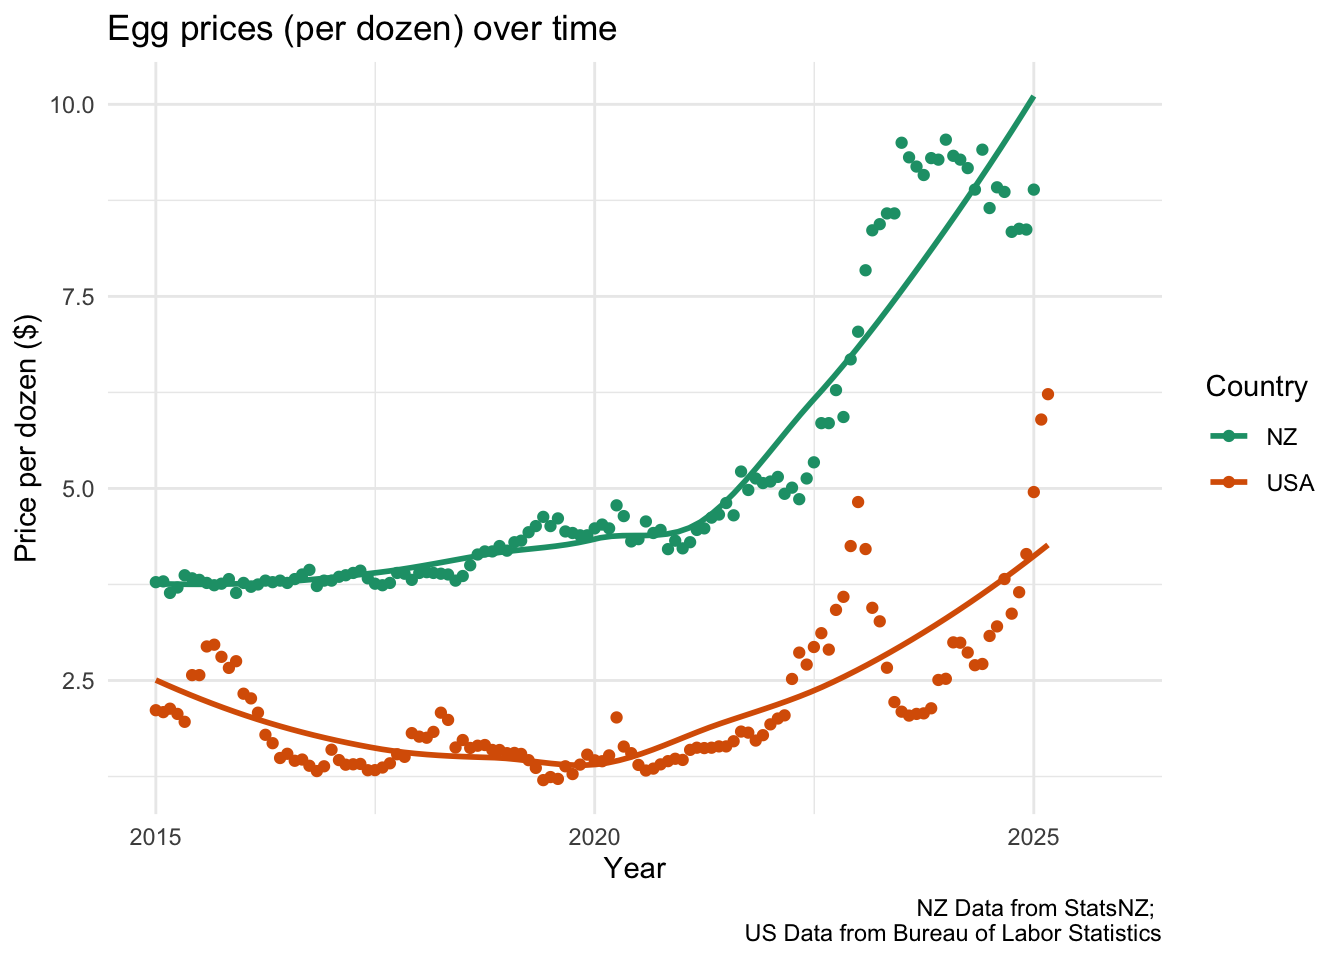
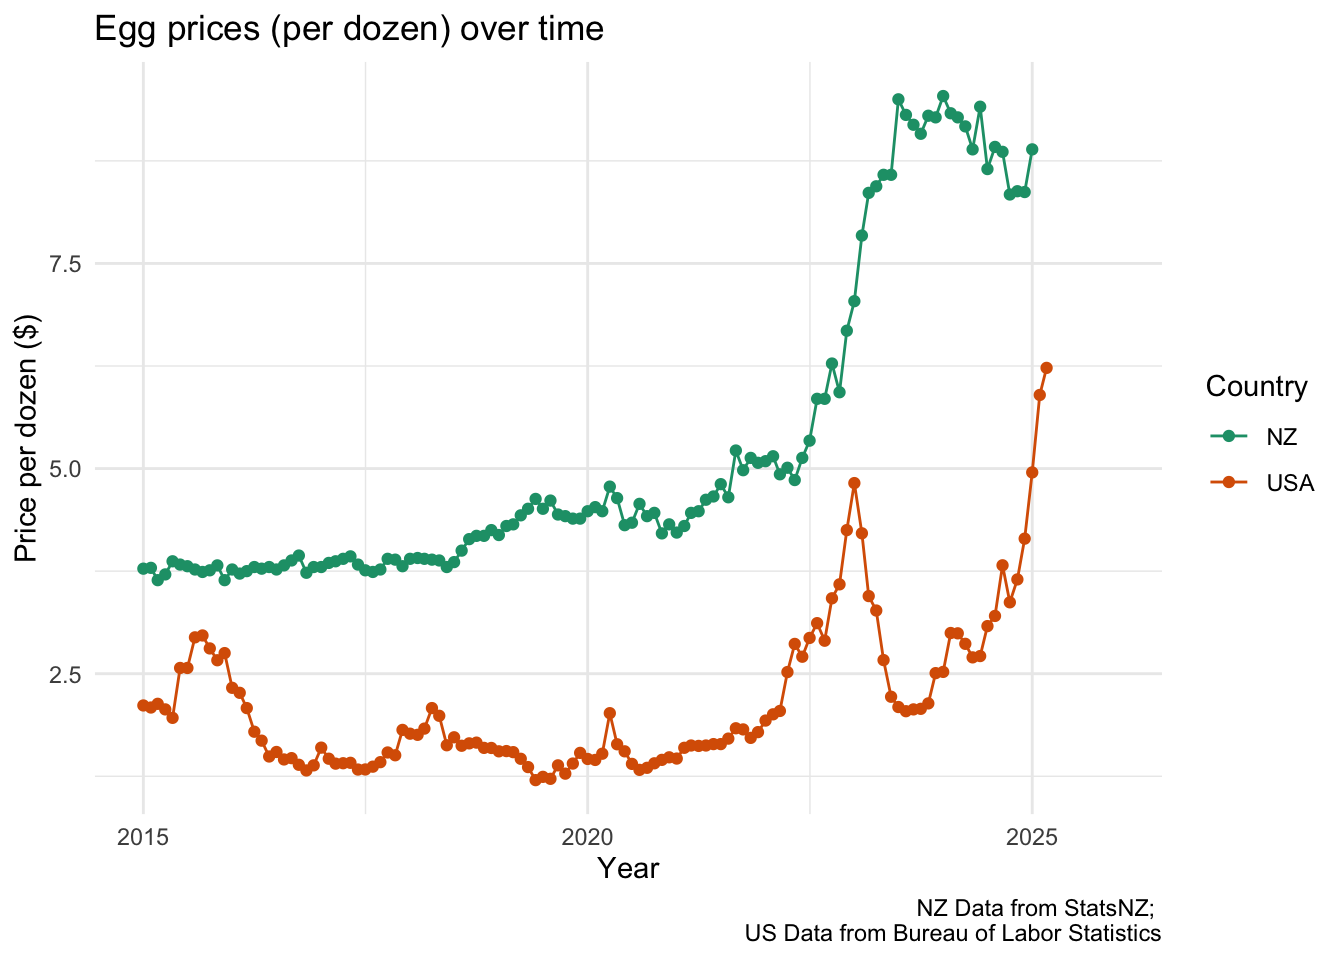
update egg plot

diff --git a/_site/charts/2025-04-19_smooth/index.html b/_site/charts/2025-04-19_smooth/index.html
@@ -7,7 +7,7 @@
 <meta name="viewport" content="width=device-width, initial-scale=1.0, user-scalable=yes">
 
 <meta name="author" content="Jen Richmond">
-<meta name="dcterms.date" content="2025-04-20">
+<meta name="dcterms.date" content="2025-04-19">
 
 <title>day 19_smooth – Jen Richmond</title>
 <style>
@@ -159,8 +159,15 @@ gtag('config', 'G-Y7WV5KV7Z0', { 'anonymize_ip': true});
 <div id="quarto-content" class="quarto-container page-columns page-rows-contents page-layout-article page-navbar">
 <!-- sidebar -->
 <!-- margin-sidebar -->
-    <div id="quarto-margin-sidebar" class="sidebar margin-sidebar zindex-bottom">
-        
+    <div id="quarto-margin-sidebar" class="sidebar margin-sidebar">
+        <nav id="TOC" role="doc-toc" class="toc-active">
+    <h2 id="toc-title">On this page</h2>
+   
+  <ul>
+  <li><a href="#read-datafix-dates" id="toc-read-datafix-dates" class="nav-link active" data-scroll-target="#read-datafix-dates">read data/fix dates</a></li>
+  <li><a href="#plot" id="toc-plot" class="nav-link" data-scroll-target="#plot">plot</a></li>
+  </ul>
+</nav>
     </div>
 <!-- main -->
 <main class="content" id="quarto-document-content">
@@ -184,7 +191,7 @@ gtag('config', 'G-Y7WV5KV7Z0', { 'anonymize_ip': true});
     <div>
     <div class="quarto-title-meta-heading">Published</div>
     <div class="quarto-title-meta-contents">
-      <p class="date">April 20, 2025</p>
+      <p class="date">April 19, 2025</p>
     </div>
   </div>
   
@@ -196,6 +203,10 @@ gtag('config', 'G-Y7WV5KV7Z0', { 'anonymize_ip': true});
 </header>
 
 
+<p><a href="https://www.nbcnews.com/data-graphics/dozen-egg-prices-drop-charts-data-rcna200232">Egg prices in the USA</a> are high right now, mostly due to supply issues caused by bird flu outbreaks. I was interested in how prices compare to egg prices in NZ, which have been high since <a href="https://www.consumer.org.nz/articles/how-did-egg-prices-double-in-a-year?gad_source=1&amp;gclid=CjwKCAjwk43ABhBIEiwAvvMEB5SiHsth08IkoYuGeXo6df4B5r6xlNonBhDxZqLCd3tOpbE9P0JmFBoCxCoQAvD_BwE">battery farms bans wwent into effect</a> in 2022.</p>
+<p>The data for these plot came from StatsNZ and the US Bureau of Labor Statistics and reuested a bit of wrangling to make the format consistent. You can find the code that I wrong to read in and clean the egg data in this <a href="https://github.com/jenrichmond/jenrichmond.github.io/blob/main/charts/2025-04-19_smooth/get%20egg%20data.R">.R script</a></p>
+<section id="read-datafix-dates" class="level2">
+<h2 class="anchored" data-anchor-id="read-datafix-dates">read data/fix dates</h2>
 <div class="cell">
 <div class="sourceCode cell-code" id="cb1"><pre class="sourceCode r code-with-copy"><code class="sourceCode r"><span id="cb1-1"><a href="#cb1-1" aria-hidden="true" tabindex="-1"></a><span class="fu">library</span>(tidyverse)</span>
 <span id="cb1-2"><a href="#cb1-2" aria-hidden="true" tabindex="-1"></a><span class="fu">library</span>(here)</span>
@@ -219,11 +230,19 @@ $ month_year &lt;chr&gt; "Jan_2015", "Feb_2015", "Mar_2015", "Apr_2015", "May_20
 $ date       &lt;date&gt; 2015-01-01, 2015-02-01, 2015-03-01, 2015-04-01, 2015-05-01…</code></pre>
 </div>
 </div>
+</section>
+<section id="plot" class="level1">
+<h1>plot</h1>
+<p>The Quarto panel tabset is a nice way of comparing different plot options here. I think the smooth option looks better with slightly transparent points.</p>
+<div class="tabset-margin-container"></div><div class="panel-tabset">
+<ul class="nav nav-tabs" role="tablist"><li class="nav-item" role="presentation"><a class="nav-link active" id="tabset-1-1-tab" data-bs-toggle="tab" data-bs-target="#tabset-1-1" role="tab" aria-controls="tabset-1-1" aria-selected="true">point + line</a></li><li class="nav-item" role="presentation"><a class="nav-link" id="tabset-1-2-tab" data-bs-toggle="tab" data-bs-target="#tabset-1-2" role="tab" aria-controls="tabset-1-2" aria-selected="false">point + smooth</a></li></ul>
+<div class="tab-content">
+<div id="tabset-1-1" class="tab-pane active" role="tabpanel" aria-labelledby="tabset-1-1-tab">
 <div class="cell">
 <div class="sourceCode cell-code" id="cb3"><pre class="sourceCode r code-with-copy"><code class="sourceCode r"><span id="cb3-1"><a href="#cb3-1" aria-hidden="true" tabindex="-1"></a>eggs <span class="sc">%&gt;%</span></span>
 <span id="cb3-2"><a href="#cb3-2" aria-hidden="true" tabindex="-1"></a>  <span class="fu">ggplot</span>(<span class="fu">aes</span>(<span class="at">x =</span> date, <span class="at">y =</span> price, <span class="at">colour =</span> currency)) <span class="sc">+</span></span>
 <span id="cb3-3"><a href="#cb3-3" aria-hidden="true" tabindex="-1"></a>  <span class="fu">geom_point</span>() <span class="sc">+</span></span>
-<span id="cb3-4"><a href="#cb3-4" aria-hidden="true" tabindex="-1"></a>  <span class="fu">geom_smooth</span>(<span class="at">se =</span> <span class="cn">FALSE</span>, <span class="at">na.rm =</span> <span class="cn">TRUE</span>) <span class="sc">+</span></span>
+<span id="cb3-4"><a href="#cb3-4" aria-hidden="true" tabindex="-1"></a>  <span class="fu">geom_line</span>() <span class="sc">+</span></span>
 <span id="cb3-5"><a href="#cb3-5" aria-hidden="true" tabindex="-1"></a>  <span class="fu">scale_colour_brewer</span>(<span class="at">palette =</span> <span class="st">"Dark2"</span>, <span class="at">name =</span> <span class="st">"Country"</span>, <span class="at">labels =</span> <span class="fu">c</span>(<span class="st">"NZ"</span>, <span class="st">"USA"</span>)) <span class="sc">+</span></span>
 <span id="cb3-6"><a href="#cb3-6" aria-hidden="true" tabindex="-1"></a>  <span class="fu">theme_minimal</span>() <span class="sc">+</span></span>
 <span id="cb3-7"><a href="#cb3-7" aria-hidden="true" tabindex="-1"></a>  <span class="fu">labs</span>(<span class="at">y =</span> <span class="st">"Price per dozen ($)"</span>, <span class="at">x =</span> <span class="st">"Year"</span>, </span>
@@ -237,8 +256,32 @@ $ date       &lt;date&gt; 2015-01-01, 2015-02-01, 2015-03-01, 2015-04-01, 2015-0
 </div>
 </div>
 </div>
+</div>
+<div id="tabset-1-2" class="tab-pane" role="tabpanel" aria-labelledby="tabset-1-2-tab">
+<div class="cell">
+<div class="sourceCode cell-code" id="cb4"><pre class="sourceCode r code-with-copy"><code class="sourceCode r"><span id="cb4-1"><a href="#cb4-1" aria-hidden="true" tabindex="-1"></a>eggs <span class="sc">%&gt;%</span></span>
+<span id="cb4-2"><a href="#cb4-2" aria-hidden="true" tabindex="-1"></a>  <span class="fu">ggplot</span>(<span class="fu">aes</span>(<span class="at">x =</span> date, <span class="at">y =</span> price, <span class="at">colour =</span> currency)) <span class="sc">+</span></span>
+<span id="cb4-3"><a href="#cb4-3" aria-hidden="true" tabindex="-1"></a>  <span class="fu">geom_point</span>(<span class="at">alpha =</span> <span class="fl">0.5</span>) <span class="sc">+</span></span>
+<span id="cb4-4"><a href="#cb4-4" aria-hidden="true" tabindex="-1"></a>  <span class="fu">geom_smooth</span>(<span class="at">se =</span> <span class="cn">FALSE</span>, <span class="at">na.rm =</span> <span class="cn">TRUE</span>) <span class="sc">+</span></span>
+<span id="cb4-5"><a href="#cb4-5" aria-hidden="true" tabindex="-1"></a>  <span class="fu">scale_colour_brewer</span>(<span class="at">palette =</span> <span class="st">"Dark2"</span>, <span class="at">name =</span> <span class="st">"Country"</span>, <span class="at">labels =</span> <span class="fu">c</span>(<span class="st">"NZ"</span>, <span class="st">"USA"</span>)) <span class="sc">+</span></span>
+<span id="cb4-6"><a href="#cb4-6" aria-hidden="true" tabindex="-1"></a>  <span class="fu">theme_minimal</span>() <span class="sc">+</span></span>
+<span id="cb4-7"><a href="#cb4-7" aria-hidden="true" tabindex="-1"></a>  <span class="fu">labs</span>(<span class="at">y =</span> <span class="st">"Price per dozen ($)"</span>, <span class="at">x =</span> <span class="st">"Year"</span>, </span>
+<span id="cb4-8"><a href="#cb4-8" aria-hidden="true" tabindex="-1"></a>       <span class="at">title =</span> <span class="st">"Egg prices (per dozen) over time"</span>, </span>
+<span id="cb4-9"><a href="#cb4-9" aria-hidden="true" tabindex="-1"></a>       <span class="at">caption =</span> <span class="st">"NZ Data from StatsNZ; </span><span class="sc">\n</span><span class="st">US Data from Bureau of Labor Statistics"</span>)</span></code><button title="Copy to Clipboard" class="code-copy-button"><i class="bi"></i></button></pre></div>
+<div class="cell-output-display">
+<div>
+<figure class="figure">
+<p><img src="index_files/figure-html/unnamed-chunk-3-1.png" class="img-fluid figure-img" width="672"></p>
+</figure>
+</div>
+</div>
+</div>
+</div>
+</div>
+</div>
 
 
+</section>
 
 </main> <!-- /main -->
 <script id="quarto-html-after-body" type="application/javascript">

diff --git a/_site/charts.html b/_site/charts.html
@@ -540,7 +540,7 @@ Apr 17, 2025
 </div>
 </a>
 </div>
-<div class="g-col-1" data-index="13" data-listing-date-sort="1745064000000" data-listing-file-modified-sort="1745111555972" data-listing-date-modified-sort="NaN" data-listing-reading-time-sort="1" data-listing-word-count-sort="133">
+<div class="g-col-1" data-index="13" data-listing-date-sort="1744977600000" data-listing-file-modified-sort="1745132816147" data-listing-date-modified-sort="NaN" data-listing-reading-time-sort="2" data-listing-word-count-sort="340">
 <a href="./charts/2025-04-19_smooth/index.html" class="quarto-grid-link">
 <div class="quarto-grid-item card h-100 card-left">
 <p class="card-img-top">
@@ -551,22 +551,14 @@ Apr 17, 2025
 day 19_smooth
 </h5>
 <div class="card-text listing-description">
-
-<div class="sourceCode cell-code" id="cb1"><pre class="sourceCode r code-with-copy"><code class="sourceCode r"><span id="cb1-1"><span class="fu">library</span>(tidyverse)</span>
-<span id="cb1-2"><span class="fu">library</span>(here)</span>
-<span id="cb1-3"></span>
-<span id="cb1-4">eggs <span class="ot">&lt;-</span> <span class="fu">read_csv</span>(<span class="fu">here</span>(<span class="st">"charts"</span>, <span class="st">"2025-04-19_smooth"</span>, <span class="st">"eggsNZUSA.csv"</span>)) </span>
-<span id="cb1-5"></span>
-<span id="cb1-6"></span>
-<span id="cb1-7">eggs <span class="ot">&lt;-</span> eggs <span class="sc">%&gt;%</span></span>
-<span id="cb1-8">    <span class="fu">mutate</span>(<span class="at">month_year =</span> <span class="fu">paste0</span>(month, <span class="st">"_"</span>…<span class="sc"></span></span><span id="cb1-9"><span class="fu"></span><span class="at"></span><span class="sc"></span><span class="fu"></span></span><span id="cb1-10"></span><span id="cb1-11"><span class="fu"></span></span></code></pre></div><div class="cell-output cell-output-stdout"><pre><code></code></pre></div>
+Egg prices in the USA are high right now, mostly due to supply issues caused by bird flu outbreaks. I was interested in how prices compare to egg prices in NZ, which have…
 </div>
 <div class="card-attribution card-text-small justify">
 <div class="listing-author">
 Jen Richmond
 </div>
 <div class="listing-date">
-Apr 20, 2025
+Apr 19, 2025
 </div>
 </div>
 </div>
